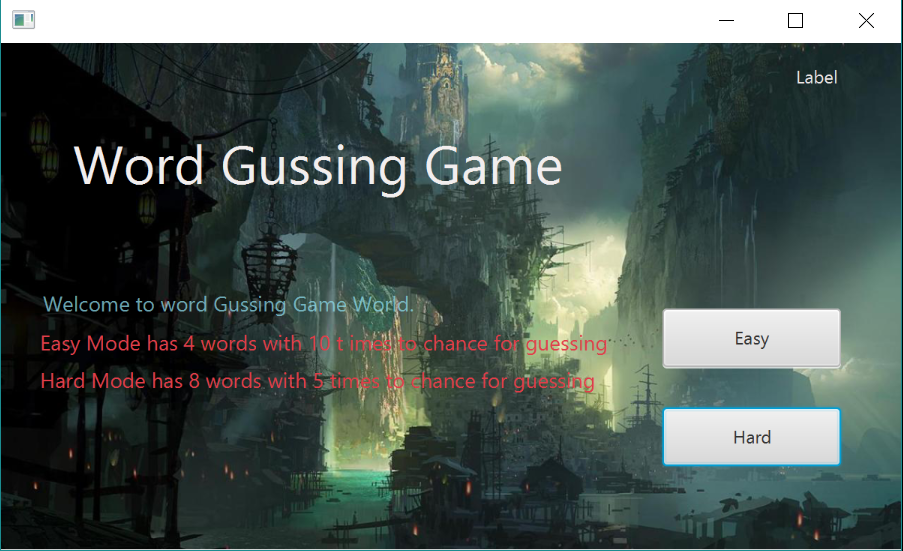
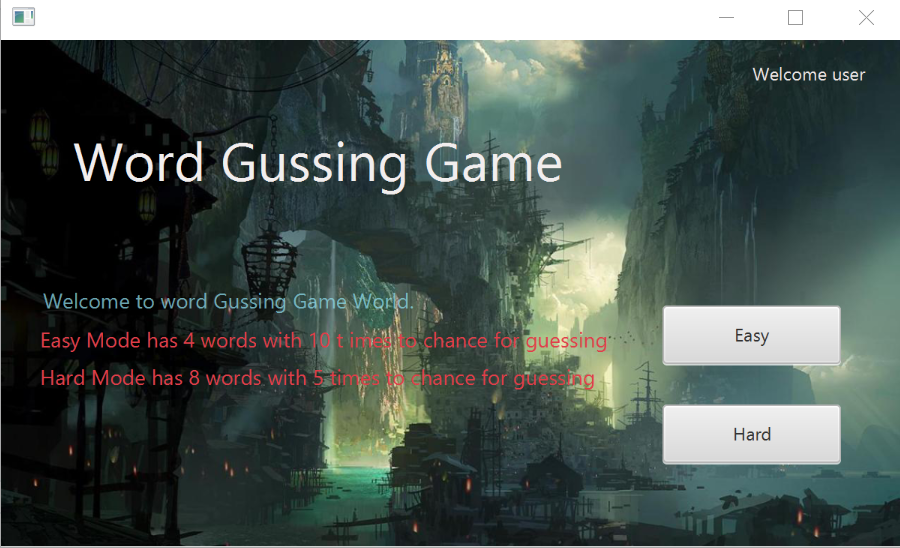
Add files via upload

diff --git a/word_gussing_game/src/word_gussing_game/LoginController.java b/word_gussing_game/src/word_gussing_game/LoginController.java
@@ -1,21 +1,27 @@
 package word_gussing_game;
 
 
+import com.sun.xml.internal.bind.v2.runtime.unmarshaller.Loader;
 import javafx.event.ActionEvent;
 import javafx.fxml.FXML;
 import javafx.fxml.FXMLLoader;
+import javafx.fxml.Initializable;
 import javafx.scene.Parent;
 import javafx.scene.Scene;
 import javafx.scene.control.*;
 import javafx.stage.Stage;
 
+import java.net.URL;
 import java.sql.Connection;
 import java.sql.PreparedStatement;
 import java.sql.ResultSet;
 import java.sql.SQLException;
+import java.util.ResourceBundle;
 
 
-public class LoginController {
+public class LoginController implements Initializable {
+
+    private login select_login;
 
     @FXML
     Button login_button;
@@ -36,6 +42,7 @@ public class LoginController {
     Label exit_text;
 
 
+
     @FXML
     public void login_clicked() throws SQLException {
 
@@ -45,6 +52,9 @@ public class LoginController {
 
         String userName = username_text.getText();
         String password = password_text.getText();
+
+
+        System.out.println(userName);
 
         try {
 
@@ -69,9 +79,16 @@ public class LoginController {
                 try {
                     FXMLLoader fxmlLoader = new FXMLLoader(this.getClass().getResource("main_game_screen.fxml"));
                     Parent root1 = (Parent) fxmlLoader.load();
+
+                    System.out.println(userName);
+                    MainGameScreenController main = fxmlLoader.getController();
+                    main.showLabel(username_text.getText());
+
                     Stage stage = new Stage();
                     stage.setScene(new Scene(root1));
                     stage.show();
+
+
                 } catch (Exception ex) {
                     ex.printStackTrace();
                 }
@@ -121,6 +138,8 @@ public class LoginController {
             String userName = username_text.getText();
             String password = password_text.getText();
 
+
+
             try {
 
 
@@ -142,14 +161,25 @@ public class LoginController {
 
 
                     try {
+
+
                         FXMLLoader fxmlLoader = new FXMLLoader(this.getClass().getResource("main_game_screen.fxml"));
                         Parent root1 = (Parent) fxmlLoader.load();
+
+                        System.out.println(userName);
+                        MainGameScreenController main = fxmlLoader.getController();
+                        main.showLabel(username_text.getText());
                         Stage stage = new Stage();
                         stage.setScene(new Scene(root1));
                         stage.show();
+
+
+
                     } catch (Exception ex) {
                         ex.printStackTrace();
                     }
+
+
                 }
 
             } catch (SQLException ex) {
@@ -162,20 +192,15 @@ public class LoginController {
         }
 
 
+
     // ---------------------------------   get information about account  --------------------------------------------
-        @FXML
-        public String getInformaiton(){
+    @Override
+    public void initialize(URL location, ResourceBundle resources ) {
 
 
-            String getuserName = username_text.getText();
-
-            System.out.println(getuserName);
-
-            return getuserName;
 
 
-        }
-
+    }
 
 
     }

diff --git a/word_gussing_game/src/game_mode/EasyGamePageController.java b/word_gussing_game/src/game_mode/EasyGamePageController.java
@@ -1,0 +1,68 @@
+package game_mode;
+
+import javafx.fxml.FXML;
+import javafx.fxml.Initializable;
+import javafx.scene.control.Label;
+import javafx.scene.control.TextField;
+
+import java.net.URL;
+import java.util.ResourceBundle;
+
+public class EasyGamePageController implements Initializable {
+
+
+    @FXML
+    Label hint_label;
+
+    @FXML
+    Label count_label;
+
+    @FXML
+    Label correct_label;
+
+    @FXML
+    TextField getWord_text;
+
+    int count=10;
+    String word = "word";
+
+
+    //------------------------ getData from datebase & show first word for hint ------------
+    public void getHintFromDatabase(){
+
+        String firstWord = word.substring(0,1);
+        hint_label.setText("Start with "+firstWord);
+
+
+    }
+
+    //------------------------ 10times and then decreasing ------------
+    public void getLeftCount(){
+
+        count_label.setText(String.valueOf(count));
+    }
+
+    public void correctWordChecker(){
+
+        String getText = getWord_text.getText();
+
+        if(getText == word){
+
+        }else{
+
+            }
+        }
+
+
+
+
+
+    // --------------------------- initialize ---------------------------------
+    @FXML
+    public void initialize(URL location, ResourceBundle resources ) {
+
+        getHintFromDatabase();
+        getLeftCount();
+
+    }
+}

diff --git a/word_gussing_game/src/word_gussing_game/MainGameScreenController.java b/word_gussing_game/src/word_gussing_game/MainGameScreenController.java
@@ -1,24 +1,52 @@
 package word_gussing_game;
 
 import javafx.fxml.FXML;
+import javafx.fxml.FXMLLoader;
+import javafx.scene.Parent;
+import javafx.scene.Scene;
+import javafx.scene.control.Button;
 import javafx.scene.control.Label;
+import javafx.stage.Stage;
 
 public class MainGameScreenController {
 
     @FXML
     Label display_id;
 
+    @FXML
+    Button easy_mode_button;
+    Button hard_mode_button;
 
-    public void show_account_for_user(){
 
 
+    public void showLabel(String name){
+        display_id.setText("Welcome " + name);
+    }
+
+    public void easy_button(){
+        try {
+
+
+            FXMLLoader fxmlLoader = new FXMLLoader(this.getClass().getResource("easy_game_page.fxml"));
+            Parent root1 = (Parent) fxmlLoader.load();
+
+            Stage stage = new Stage();
+            stage.setScene(new Scene(root1));
+            stage.show();
+
+
+
+        } catch (Exception ex) {
+            ex.printStackTrace();
         }
-
+    }
 
     @FXML
     public void initialize() {
 
         // display the account userID
+        //login log = new login();
+
 
     }
 

diff --git a/word_gussing_game/src/word_gussing_game/login.java b/word_gussing_game/src/word_gussing_game/login.java
@@ -1,6 +1,7 @@
 package word_gussing_game;
 
 public class login {
+
     int id;
     String userName;
     String password;
